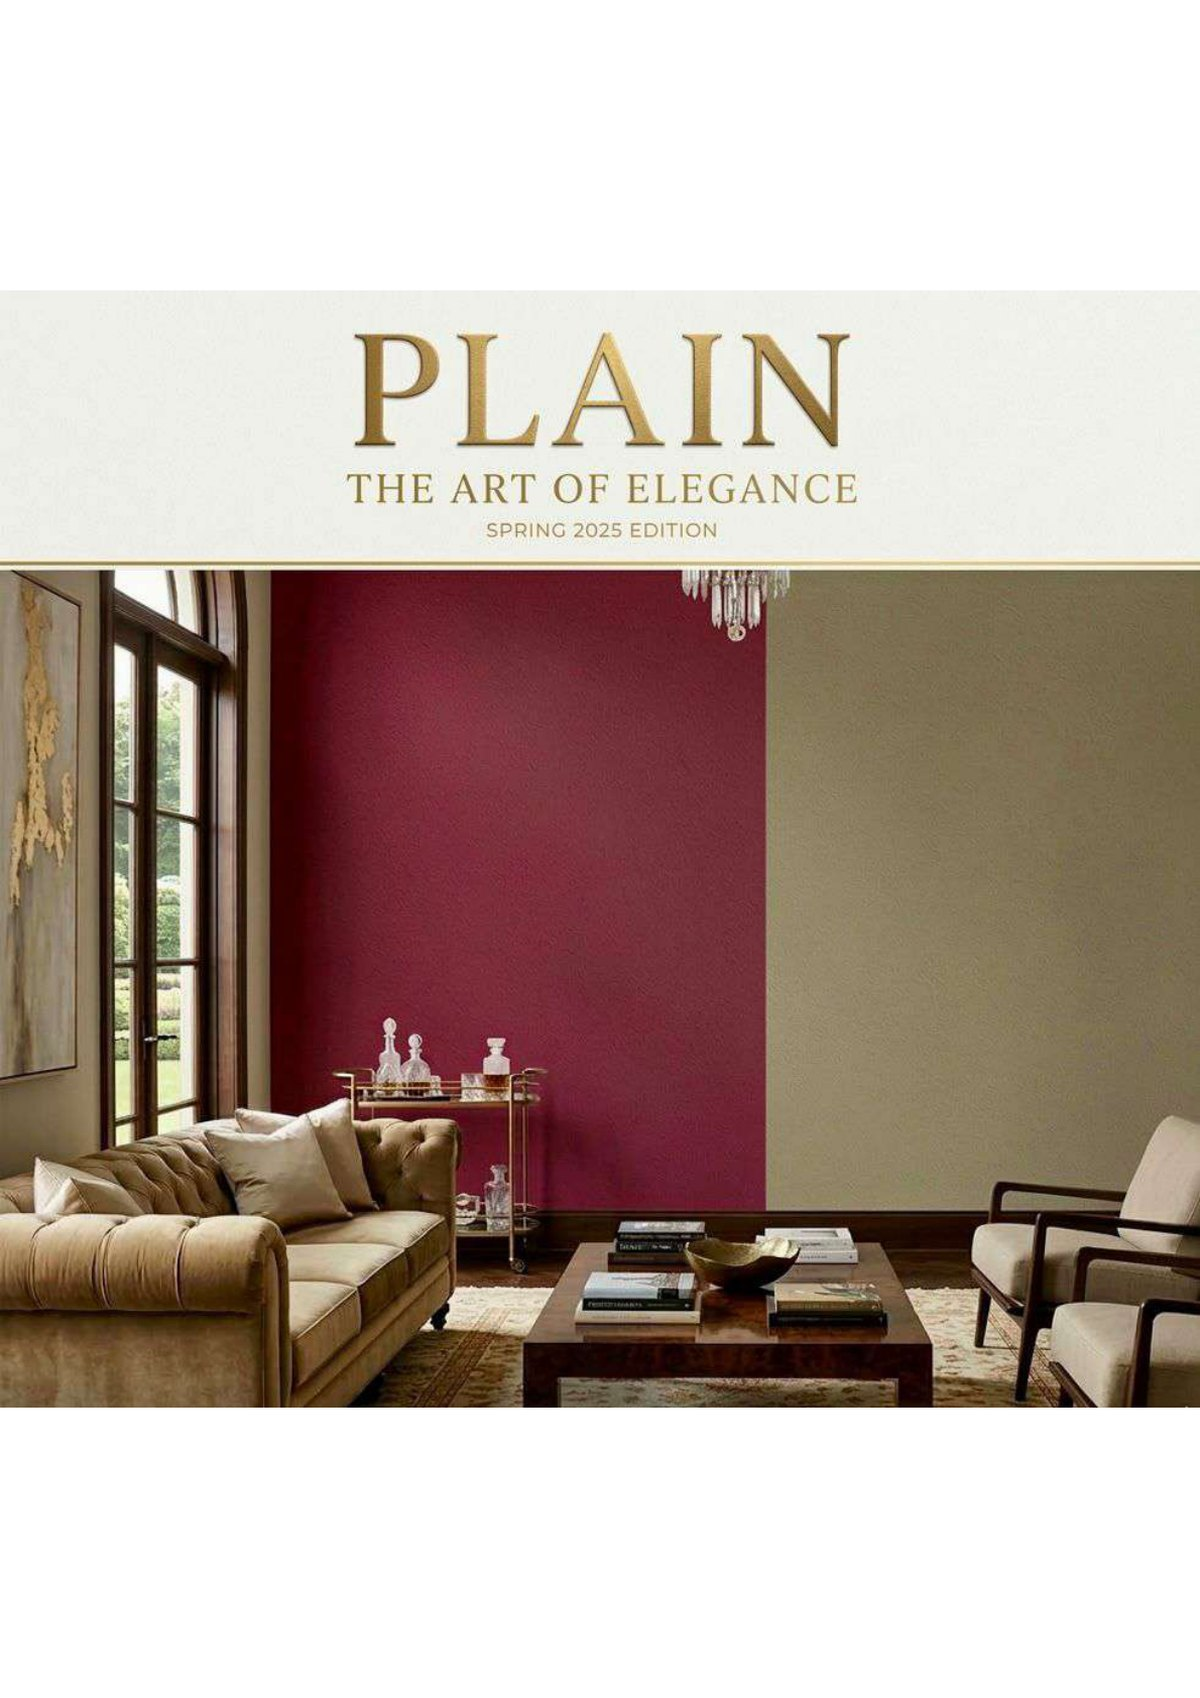
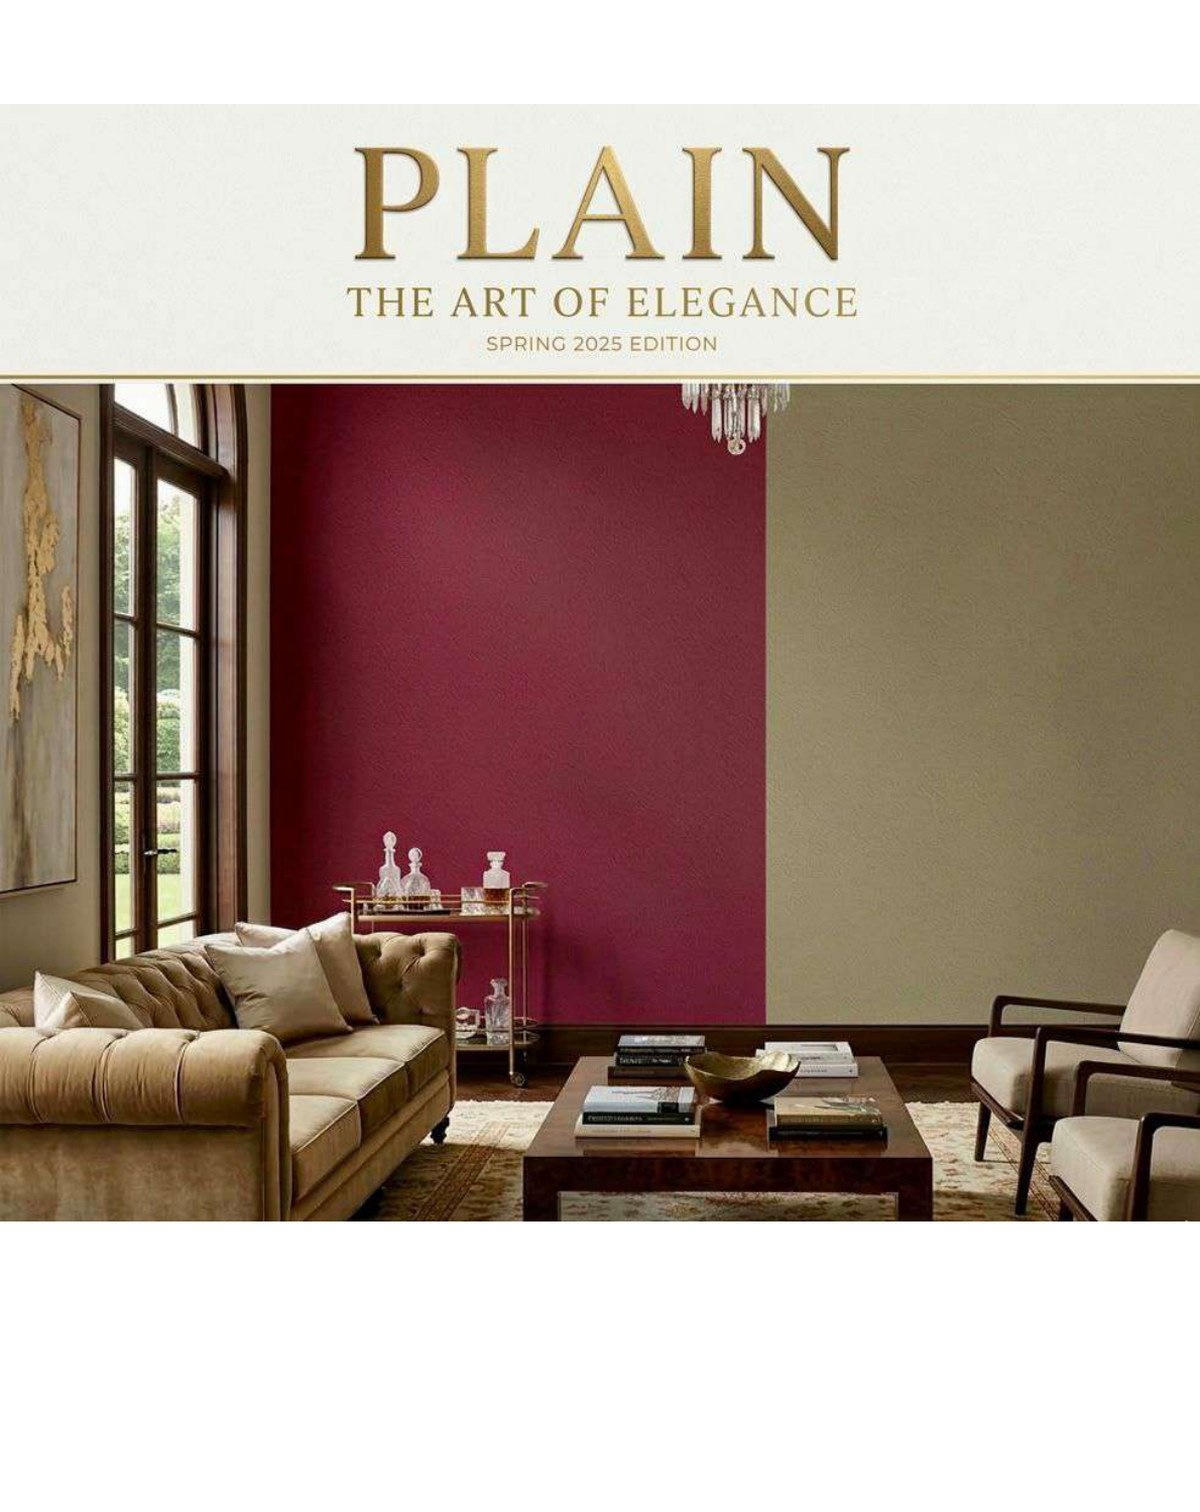
fix(rolls): use the catalogue cover panels as collection cards, shown whole

diff --git a/wallpaper-rolls/index.html b/wallpaper-rolls/index.html
@@ -273,7 +273,7 @@
         <div class="rolls-collections">
           <article class="rolls-collection rv" style="--i:0" data-collection-card="athenic-india" data-no-lightbox>
             <a class="rolls-collection__media" href="../wallpaper-rolls/athenic-india/" aria-label="Explore Athenic India designs">
-              <img src="../assets/rolls/athenic-india/cover.jpg" alt="Athenic India wallpaper collection" width="1200" height="1200" loading="lazy" decoding="async">
+              <img src="../assets/rolls/athenic-india/cover.jpg" alt="Athenic India wallpaper collection" width="1200" height="1512" loading="lazy" decoding="async">
             </a>
             <div class="rolls-collection__body">
               <span class="cap">56 designs · 18 catalogue pages</span>
@@ -294,7 +294,7 @@
           </article>
           <article class="rolls-collection rv" style="--i:1" data-collection-card="plain" data-no-lightbox>
             <a class="rolls-collection__media" href="../wallpaper-rolls/plain/" aria-label="Explore Plain designs">
-              <img src="../assets/rolls/plain/cover.jpg" alt="Plain wallpaper collection" width="1200" height="1200" loading="lazy" decoding="async">
+              <img src="../assets/rolls/plain/cover.jpg" alt="Plain wallpaper collection" width="1200" height="1512" loading="lazy" decoding="async">
             </a>
             <div class="rolls-collection__body">
               <span class="cap">38 designs · 22 catalogue pages</span>

diff --git a/assets/css/rolls.css b/assets/css/rolls.css
@@ -168,7 +168,7 @@
 .rolls-collection:hover { border-color: rgba(207, 161, 78, .5); }
 .rolls-collection__media {
   display: block;
-  aspect-ratio: 4 / 3;
+  aspect-ratio: 1200 / 1512;   /* the catalogue cover panels, shown whole */
   overflow: hidden;
   background: var(--ground-deep);
   border-bottom: 1px solid var(--hairline);
